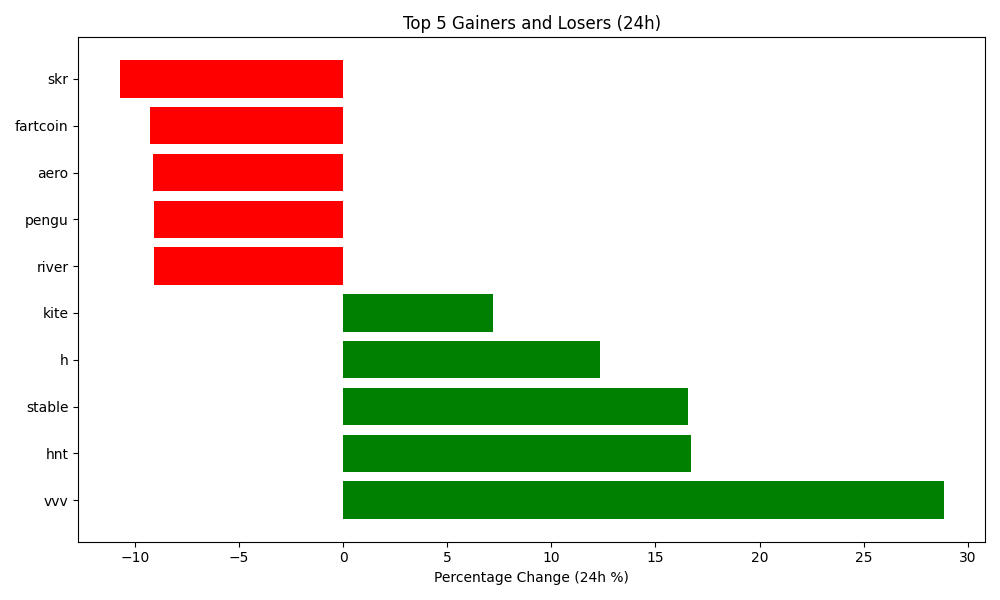
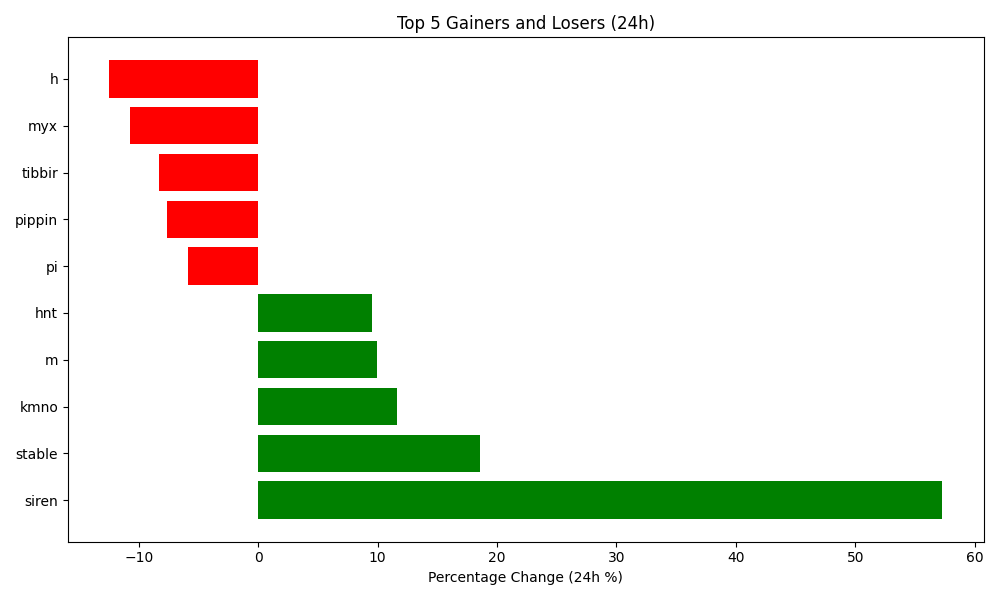
Auto-update crypto data and plot

diff --git a/README.md b/README.md
@@ -4,7 +4,7 @@ Author: Hitesh Agrawal
 This repository automatically tracks the top 5 gaining, top 5 losing, and top 5 highest volume cryptocurrencies in the last 24 hours using the CoinGecko API, Python, Matplotlib, and GitHub Actions updates the below content everyday at midnight.
 
 <!-- START_DYNAMIC_CONTENT -->
-Last updated: 2026-02-16 01:26 UTC
+Last updated: 2026-02-17 01:25 UTC
 
 ![Crypto Movers Plot](crypto_movers_plot.png)
 
@@ -12,33 +12,33 @@ Last updated: 2026-02-16 01:26 UTC
 
 | Rank | Coin | Price Change (24h %) | Volume (USD) | Current Price (USD) |
 | :--: | :--: | :------------------: | :----------: | :-----------------: |
-| 1 | vvv | 28.84% | $57,230,215 | $4.1200 |
-| 2 | hnt | 16.73% | $18,064,493 | $1.3000 |
-| 3 | stable | 16.57% | $31,494,849 | $0.0266 |
-| 4 | h | 12.36% | $107,763,873 | $0.2226 |
-| 5 | kite | 7.18% | $142,727,586 | $0.2059 |
+| 1 | siren | 57.29% | $32,424,272 | $0.2261 |
+| 2 | stable | 18.58% | $60,842,645 | $0.0315 |
+| 3 | kmno | 11.60% | $7,850,338 | $0.0336 |
+| 4 | m | 9.99% | $8,695,505 | $1.4300 |
+| 5 | hnt | 9.53% | $29,545,715 | $1.4200 |
 
 
 **👇 Top 5 Losers (24h)**
 
 | Rank | Coin | Price Change (24h %) | Volume (USD) | Current Price (USD) |
 | :--: | :--: | :------------------: | :----------: | :-----------------: |
-| 1 | skr | -10.73% | $6,149,415 | $0.0210 |
-| 2 | fartcoin | -9.25% | $46,550,030 | $0.1976 |
-| 3 | aero | -9.14% | $13,773,179 | $0.3072 |
-| 4 | pengu | -9.10% | $136,329,942 | $0.0071 |
-| 5 | river | -9.09% | $22,003,009 | $12.5100 |
+| 1 | h | -12.44% | $34,679,210 | $0.1950 |
+| 2 | myx | -10.70% | $17,658,570 | $1.8700 |
+| 3 | tibbir | -8.26% | $6,203,921 | $0.1305 |
+| 4 | pippin | -7.64% | $51,428,925 | $0.6443 |
+| 5 | pi | -5.89% | $27,976,482 | $0.1734 |
 
 
 **💎 Top 5 by Trade Volume (24h)**
 
 | Rank | Coin | Price Change (24h %) | Volume (USD) | Current Price (USD) |
 | :--: | :--: | :------------------: | :----------: | :-----------------: |
-| 1 | usdt | -0.01% | $85,834,196,579 | $0.9996 |
-| 2 | btc | -1.22% | $44,171,783,900 | $68,694.0000 |
-| 3 | eth | -4.79% | $32,334,227,114 | $1,966.7200 |
-| 4 | usdc | 0.01% | $10,132,408,646 | $1.0000 |
-| 5 | xrp | -3.58% | $5,385,569,433 | $1.4700 |
+| 1 | usdt | 0.00% | $62,347,851,256 | $0.9997 |
+| 2 | btc | 0.31% | $36,379,571,994 | $68,906.0000 |
+| 3 | eth | 1.82% | $16,858,298,367 | $2,002.5100 |
+| 4 | sol | 0.91% | $3,651,914,162 | $86.9100 |
+| 5 | usdc | -0.00% | $3,239,912,083 | $0.9999 |
 
 
 <!-- END_DYNAMIC_CONTENT -->
